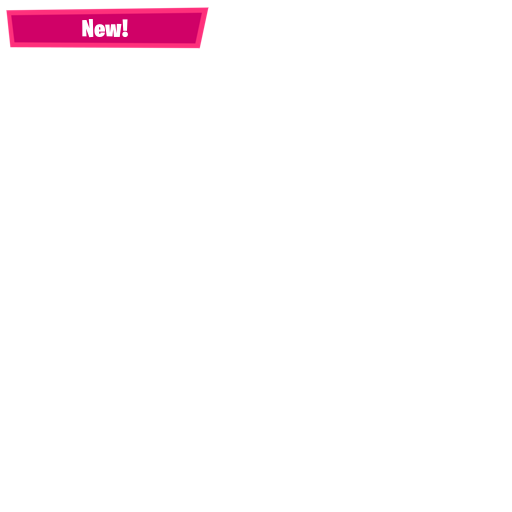
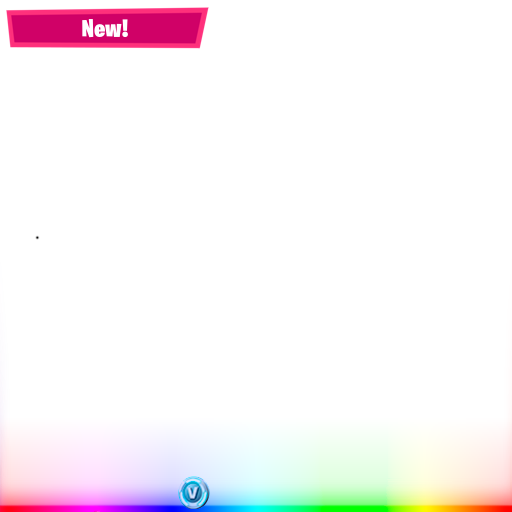
Fixed images not loading crashing bot. Twitter posting without api does work now

Changed region(s): [[0.0, 0.875, 1.0, 1.0]]

diff --git a/helpers/post_helper.py b/helpers/post_helper.py
@@ -17,37 +17,45 @@ def _post_twitter_api(image, caption):
 
 from selenium import webdriver
 from selenium.webdriver.support.ui import WebDriverWait
+from selenium.webdriver.common.keys import Keys
 from selenium.webdriver.support import expected_conditions as EC
 from selenium.webdriver.common.by import By
 
 def _post_twitter(image, caption):
     options = webdriver.ChromeOptions()
-    options.add_argument("--headless")
+    # options.add_argument("--headless")
 
     driver = webdriver.Chrome(os.path.join(constants.BASE_PATH, "chromedriver.exe"), options=options)
     driver.get("https://twitter.com/i/flow/login")
 
+    driver.maximize_window()
+    driver.set_window_position(-1920, 0)
+
     email_field = WebDriverWait(driver, 10).until(EC.presence_of_element_located((By.XPATH, '//*[@id="layers"]/div/div/div/div/div/div/div[2]/div[2]/div/div/div[2]/div[2]/div/div/div/div[5]/label/div/div[2]/div/input')))
     email_field.send_keys(constants.TWITTER_EMAIL)
-    email_field.submit()
+    email_field.send_keys(Keys.ENTER)
 
     # Security username question
     try:
         security_username_field = WebDriverWait(driver, 10).until(EC.presence_of_element_located((By.XPATH, '//*[@id="layers"]/div/div/div/div/div/div/div[2]/div[2]/div/div/div[2]/div[2]/div[1]/div/div[2]/label/div/div[2]/div/input')))
         security_username_field.send_keys(constants.TWITTER_USERNAME)
-        security_username_field.submit()
+        security_username_field.send_keys(Keys.ENTER)
     except:
         pass
 
     password_field = WebDriverWait(driver, 10).until(EC.presence_of_element_located((By.XPATH, '//*[@id="layers"]/div/div/div/div/div/div/div[2]/div[2]/div/div/div[2]/div[2]/div[1]/div/div/div[3]/div/label/div/div[2]/div[1]/input')))
     password_field.send_keys(constants.TWITTER_PASSWORD)
-    password_field.submit()
+    password_field.send_keys(Keys.ENTER)
 
-    post_image_button = WebDriverWait(driver, 10).until(EC.presence_of_element_located((By.XPATH, '//*[@id="react-root"]/div/div/div[2]/main/div/div/div/div[1]/div/div[3]/div/div[2]/div[1]/div/div/div/div[2]/div[3]/div/div/div[1]/div[1]')))
+    # Logged in
+
+    post_image_button = WebDriverWait(driver, 10).until(EC.presence_of_element_located((By.XPATH, '//*[@id="react-root"]/div/div/div[2]/main/div/div/div/div/div/div[3]/div/div[2]/div[1]/div/div/div/div[2]/div[3]/div/div/div[1]/input')))
     post_image_button.send_keys(image)
 
-    post_caption_button = WebDriverWait(driver, 10).until(EC.presence_of_element_located((By.XPATH, '//*[@id="react-root"]/div/div/div[2]/main/div/div/div/div[1]/div/div[3]/div/div[2]/div[1]/div/div/div/div[2]/div[1]/div/div/div/div/div/div[2]/div/div/div/div[1]')))
-    post_caption_button.send_keys(caption)
-    post_caption_button.submit()
+    post_caption_button = WebDriverWait(driver, 10).until(EC.presence_of_element_located((By.XPATH, '//*[@id="react-root"]/div/div/div[2]/main/div/div/div/div/div/div[3]/div/div[2]/div[1]/div/div/div/div[2]/div[1]/div/div/div/div/div/div/div/div/div/div/label/div[1]/div/div/div/div/div/div[2]/div/div/div/div')))
+    post_caption_button.send_keys(caption.replace("\\n", Keys.ENTER))
+
+    post_caption_button.send_keys(Keys.CONTROL, Keys.ENTER)
+    driver.implicitly_wait(10)
 
     driver.quit()

diff --git a/shop/shop.py b/shop/shop.py
@@ -19,9 +19,6 @@ class ShopModule:
     def __init__(self):
         if not os.path.exists(self._RESULT_PATH):
             os.makedirs(self._RESULT_PATH)
-        
-        if os.path.exists(self._TEMP_PATH):
-            os.rmdir(self._TEMP_PATH)
 
     def register(self, schedule):
         schedule.every(1).minutes.do(self.update)
@@ -66,7 +63,6 @@ class ShopModule:
         os.mkdir(self._TEMP_PATH)
 
         # Load assets
-        rainbow_image = image_helper.from_path(os.path.join(constants.ASSETS_PATH, 'rainbow.png'))
         overlay_image = image_helper.from_path(os.path.join(constants.ASSETS_PATH, 'overlay.png'))
         new_badge = image_helper.from_path(os.path.join(constants.ASSETS_PATH, "new_badge.png"))
 
@@ -102,7 +98,7 @@ class ShopModule:
             icon_image.paste(overlay_image, (0, 0), overlay_image)
 
             if days_gone is None:
-                icon_image.paste(rainbow_image, (0, 0), rainbow_image)
+                icon_image.paste(new_badge, (0, 0), new_badge)
 
             item_name = offer_json['displayName']
             
@@ -128,10 +124,6 @@ class ShopModule:
             draw = ImageDraw.Draw(icon_image)
             draw.text((256, 505), str(offer_price), font=font, fill='white', anchor='ms') #Writes price of offer
 
-            #New badge
-            if days_gone is None:
-                icon_image.paste(new_badge, (0, 0), new_badge)
-
             section_number = sections[offer_section] if offer_section in sections else len(sections)
 
             #Save image
@@ -139,7 +131,6 @@ class ShopModule:
             icon_image.close()
 
         # Free memory
-        rainbow_image.close()
         overlay_image.close()
         new_badge.close()
 

diff --git a/helpers/image_helper.py b/helpers/image_helper.py
@@ -1,12 +1,16 @@
 import requests
-from PIL import Image
+from PIL import Image, UnidentifiedImageError
 from io import BytesIO
 
 def from_url(url, size=512):
     response = requests.get(f"{url}?width={size}", stream=True)
-    image = Image.open(BytesIO(response.content))
     
-    return image.convert('RGBA').resize((size, size), Image.Resampling.LANCZOS)
+    try: 
+        image = Image.open(BytesIO(response.content))
+        return image.convert('RGBA').resize((size, size), Image.Resampling.LANCZOS)
+    except UnidentifiedImageError:
+        print(f"Error: {url} is not a valid image.")
+        return Image.new('RGBA', (size, size), (0, 0, 0, 0))
 
 def from_path(path, size=512):
     image = Image.open(path).convert('RGBA')
